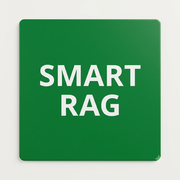
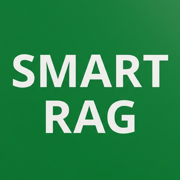
fix(graph): a concept's name was unique across the installation
Asked whether the graph work was watertight, and it was not. The schema
has constrained Concept.name globally since it was written, so two
courses cannot both have a concept called "Cognitive Load" — the second
course's MERGE fails outright. The per-course graph could not have
worked, and the tests could not have caught it: they stub the transport
to check which statement goes out, not what Neo4j does with it.

Neo4j Community cannot constrain a pair of properties — a node key is
Enterprise — so the pair is folded into one synthetic property,
c.key = "<course>::<name>", and the uniqueness constraint moved there.
The separator is two colons because a course id cannot contain one.
MERGE is on the key for the same reason: merging on anything the
database does not enforce lets a concurrent write create a second node
that the constraint then rejects.

Adopting concepts from before the split now sets the key as well.
Without it an adopted concept is invisible to the next MERGE, which
would create a second node beside it.

Two more from the same review. "topic" was in the accepted field set and
never written, so a model using it would have had that output silently
dropped — a field that is accepted is a promise to store it, so it is
refused now. And prerequisite circles are rejected: A before B before C
before A is a contradiction that nothing downstream would complain
about.

Also: favicon replaced with the one from edpsych-ai.de, scaled to the 32
[…]

diff --git a/tests/test_graph.py b/tests/test_graph.py
@@ -96,6 +96,34 @@ check("an oversized proposal is refused",
       rejects(json.dumps({"concepts": [{"name": f"C{i}"} for i in range(nc.MAX_CONCEPTS + 1)]}),
               "split it up"))
 
+# A field that is accepted and then not written is worse than one that is
+# refused: the model's output disappears and nobody is told. "topic" was in
+# the accepted set and never stored.
+check("a field that is not stored is refused rather than dropped",
+      rejects('{"concepts": [{"name": "A", "topic": "Kapitel 1"}]}', "does not store"))
+
+# Circles. "A before B before C before A" is a contradiction, and nothing
+# downstream would object — the agent would fetch prerequisites for ever or
+# teach in an arbitrary order, and the map would look plausible.
+check("a prerequisite circle is refused",
+      rejects(json.dumps({
+          "concepts": [{"name": "A"}, {"name": "B"}, {"name": "C"}],
+          "prerequisites": [{"before": "A", "after": "B"},
+                            {"before": "B", "after": "C"},
+                            {"before": "C", "after": "A"}]}), "circle"))
+long_chain = json.dumps({
+    "concepts": [{"name": n} for n in "ABCDE"],
+    "prerequisites": [{"before": a, "after": b}
+                      for a, b in zip("ABCD", "BCDE")]})
+check("a long chain is not mistaken for a circle",
+      len(nc.parse_proposal(long_chain)[1]) == 4, "")
+diamond = json.dumps({
+    "concepts": [{"name": n} for n in "ABCD"],
+    "prerequisites": [{"before": "A", "after": "B"}, {"before": "A", "after": "C"},
+                      {"before": "B", "after": "D"}, {"before": "C", "after": "D"}]})
+check("two paths to the same concept are allowed",
+      len(nc.parse_proposal(diamond)[1]) == 4, "a diamond is not a circle")
+
 # ─── 2. Every statement carries the course ───────────────────────────────────
 class Recorder(nc.Neo4jClient):
     def __init__(self):
@@ -117,8 +145,17 @@ check("something was written", r.sent, "")
 for st in r.sent:
     check("every write names the course",
           st["parameters"].get("course") == "mathe-1", st["parameters"])
-    check("…in the pattern, not as an afterthought",
-          "course_id: $course" in st["statement"], st["statement"])
+    # Two shapes, both carrying the course into the match itself. A concept
+    # is merged on its key, which begins with the course; an edge matches
+    # both ends inside the course. What must never appear is a statement
+    # that finds a node by name alone and then sets the course afterwards —
+    # that one would attach to another course's node.
+    if st["statement"].startswith("MERGE (c:Concept"):
+        check("a concept is keyed by its course",
+              st["parameters"]["key"].startswith("mathe-1::"), st["parameters"])
+    else:
+        check("an edge matches both ends inside the course",
+              st["statement"].count("course_id: $course") == 2, st["statement"])
 # MERGE everywhere, CREATE nowhere. A model asked twice returns almost the
 # same list, so re-applying a proposal is the normal case — with CREATE it
 # would double the graph each time, and the duplicates are only visible as
@@ -128,6 +165,32 @@ check("nothing is created blindly",
       [st["statement"][:60] for st in r.sent if "CREATE (" in st["statement"]])
 check("concepts are merged", any(st["statement"].startswith("MERGE (c:Concept")
                                  for st in r.sent), "")
+
+# The uniqueness the database can actually enforce. Neo4j Community has no
+# composite uniqueness — a node key is Enterprise — and the constraint that
+# shipped was on c.name alone, which is global: two courses could not both
+# have a concept called "Cognitive Load", and the second one failed on MERGE.
+# The pair is folded into c.key, and that is what is merged on.
+check("a concept is keyed by course and name",
+      nc.concept_key("mathe-1", "Cognitive Load") == "mathe-1::Cognitive Load",
+      nc.concept_key("mathe-1", "Cognitive Load"))
+check("the same name in two courses gives two keys",
+      nc.concept_key("mathe-1", "X") != nc.concept_key("chemie-1", "X"), "")
+check("the write merges on that key",
+      any("MERGE (c:Concept {key: $key})" in st["statement"] for st in r.sent),
+      [st["statement"][:50] for st in r.sent])
+
+schema = (REPO / "neo4j" / "schema.cypher").read_text()
+check("the global uniqueness on the name is dropped",
+      "DROP CONSTRAINT constraint_concept_name IF EXISTS" in schema,
+      "two courses cannot both have a concept of the same name")
+check("…and replaced by one on the key",
+      "REQUIRE c.key IS UNIQUE" in schema, "")
+check("adopting old concepts gives them a key",
+      "c.key = $course + '::' + c.name" in
+      (APP_DIR / "neo4j_client.py").read_text(),
+      "an adopted concept without a key is invisible to the next MERGE, "
+      "which then creates a second node beside it")
 check("edges are merged onto existing concepts",
       any("MERGE (a)-[:PREREQUISITE_FOR]->(b)" in st["statement"] for st in r.sent), "")
 
@@ -140,6 +203,7 @@ for method, args in (("concepts", ("mathe-1",)), ("edges", ("mathe-1",)),
     for st in r.sent:
         check(f"{method} scopes its query to the course",
               "course_id: $course" in st["statement"], st["statement"])
+
         check(f"{method} passes the course as a parameter",
               st["parameters"].get("course") == "mathe-1", st.get("parameters"))
 

diff --git a/content-admin/neo4j_client.py b/content-admin/neo4j_client.py
@@ -30,7 +30,21 @@ import requests
 MAX_NAME = 120
 MAX_CONCEPTS = 500
 
-CONCEPT_KEYS = {"name", "chapter", "section_id", "description", "topic"}
+# What a concept may carry. "topic" is deliberately absent: it was accepted
+# here and then never written, so a model that used it would have its output
+# silently dropped — accepting a field is a promise to store it.
+CONCEPT_KEYS = {"name", "chapter", "section_id", "description"}
+
+
+def concept_key(course_id: str, name: str) -> str:
+    """The one property the database can enforce uniqueness on.
+
+    Neo4j Community has no composite uniqueness — a node key is Enterprise —
+    so the pair (course, name) is folded into one value. The separator is two
+    colons because a course id cannot contain one (see the courses table's
+    CHECK), which makes the encoding unambiguous.
+    """
+    return f"{course_id}::{name}"
 
 
 class Neo4jError(RuntimeError):
@@ -137,11 +151,19 @@ class Neo4jClient:
         for c in concepts:
             statements.append({
                 "statement": (
-                    "MERGE (c:Concept {name: $name, course_id: $course}) "
-                    "SET c.chapter = coalesce($chapter, c.chapter), "
+                    # MERGE on the synthetic key, not on (name, course_id):
+                    # the uniqueness constraint can only cover one property in
+                    # Neo4j Community, so the pair lives in c.key and that is
+                    # what the database enforces. Merging on anything else
+                    # would let a concurrent write create a second node the
+                    # constraint then rejects.
+                    "MERGE (c:Concept {key: $key}) "
+                    "SET c.name = $name, c.course_id = $course, "
+                    "    c.chapter = coalesce($chapter, c.chapter), "
                     "    c.section_id = coalesce($section_id, c.section_id), "
                     "    c.description = coalesce($description, c.description)"),
                 "parameters": {
+                    "key": concept_key(course_id, c["name"]),
                     "name": c["name"], "course": course_id,
                     "chapter": c.get("chapter"), "section_id": c.get("section_id"),
                     "description": c.get("description"),
@@ -187,7 +209,12 @@ class Neo4jClient:
         """Claim the concepts that predate course scoping for one course."""
         results = self._run([{
             "statement": ("MATCH (c:Concept) WHERE c.course_id IS NULL "
-                          "SET c.course_id = $course RETURN count(c) AS moved"),
+                          # The key comes with the course: a concept adopted
+                          # without one is invisible to every later MERGE,
+                          # which would then create a second node beside it.
+                          "SET c.course_id = $course, "
+                          "    c.key = $course + '::' + c.name "
+                          "RETURN count(c) AS moved"),
             "parameters": {"course": course_id},
         }])
         rows = _rows(results[0]) if results else []
@@ -284,7 +311,46 @@ def parse_proposal(text: str) -> tuple[list[dict], list[dict]]:
             raise GraphInputError(f"Prerequisite {i} points {before!r} at itself.")
         edges.append({"before": before, "after": after})
 
+    _reject_cycles(concepts, edges)
     return concepts, edges
+
+
+def _reject_cycles(concepts: list[dict], edges: list[dict]) -> None:
+    """A prerequisite chain that comes back to where it started.
+
+    "A before B before C before A" says every one of the three must be
+    understood first, which is not a statement about a course, it is a
+    contradiction. Nothing downstream would complain: the agent would fetch
+    prerequisites for ever or teach in an arbitrary order, and the map would
+    look plausible. Self-loops are the one-element case and are caught
+    earlier with a clearer message.
+    """
+    after: dict[str, list[str]] = {}
+    for e in edges:
+        after.setdefault(e["before"].casefold(), []).append(e["after"].casefold())
+
+    WHITE, GREY, BLACK = 0, 1, 2
+    colour: dict[str, int] = {}
+    path: list[str] = []
+
+    def visit(node: str):
+        colour[node] = GREY
+        path.append(node)
+        for nxt in after.get(node, []):
+            state = colour.get(nxt, WHITE)
+            if state == GREY:
+                loop = path[path.index(nxt):] + [nxt]
+                raise GraphInputError(
+                    "These prerequisites form a circle, so none of them could "
+                    "ever be learned first: " + " → ".join(loop))
+            if state == WHITE:
+                visit(nxt)
+        path.pop()
+        colour[node] = BLACK
+
+    for c in concepts:
+        if colour.get(c["name"].casefold(), WHITE) == WHITE:
+            visit(c["name"].casefold())
 
 
 def _opt(value):

diff --git a/CHANGELOG.md b/CHANGELOG.md
@@ -13,6 +13,20 @@ installation — `sudo smartrag` → *Upgrade* applies most of them.
 
 ### Added
 
+- **A concept's name was globally unique, which made a per-course graph
+  impossible.** `neo4j/schema.cypher` constrained `Concept.name` across the
+  whole installation, so two courses could not both have a concept called
+  "Cognitive Load" — the second course's write would simply fail. Neo4j
+  Community cannot constrain a pair of properties (a node key is Enterprise),
+  so the pair is folded into one synthetic `key` property, `course::name`,
+  and the constraint moved there. Found by reading the schema after the
+  feature was written; the tests stub the transport and could not have seen
+  it. **Upgrade required:** re-run the schema step, which drops the old
+  constraint.
+- **Prerequisite circles are refused.** "A before B before C before A" is a
+  contradiction, and nothing downstream objects: the agent would fetch
+  prerequisites for ever or teach in an arbitrary order, and the map would
+  look plausible.
 - **The knowledge graph belongs to a course, and is no longer edited by
   pasting Cypher.** Concepts carried no course and the agents matched them by
   name alone, so with two courses one course's prerequisites answered for the
